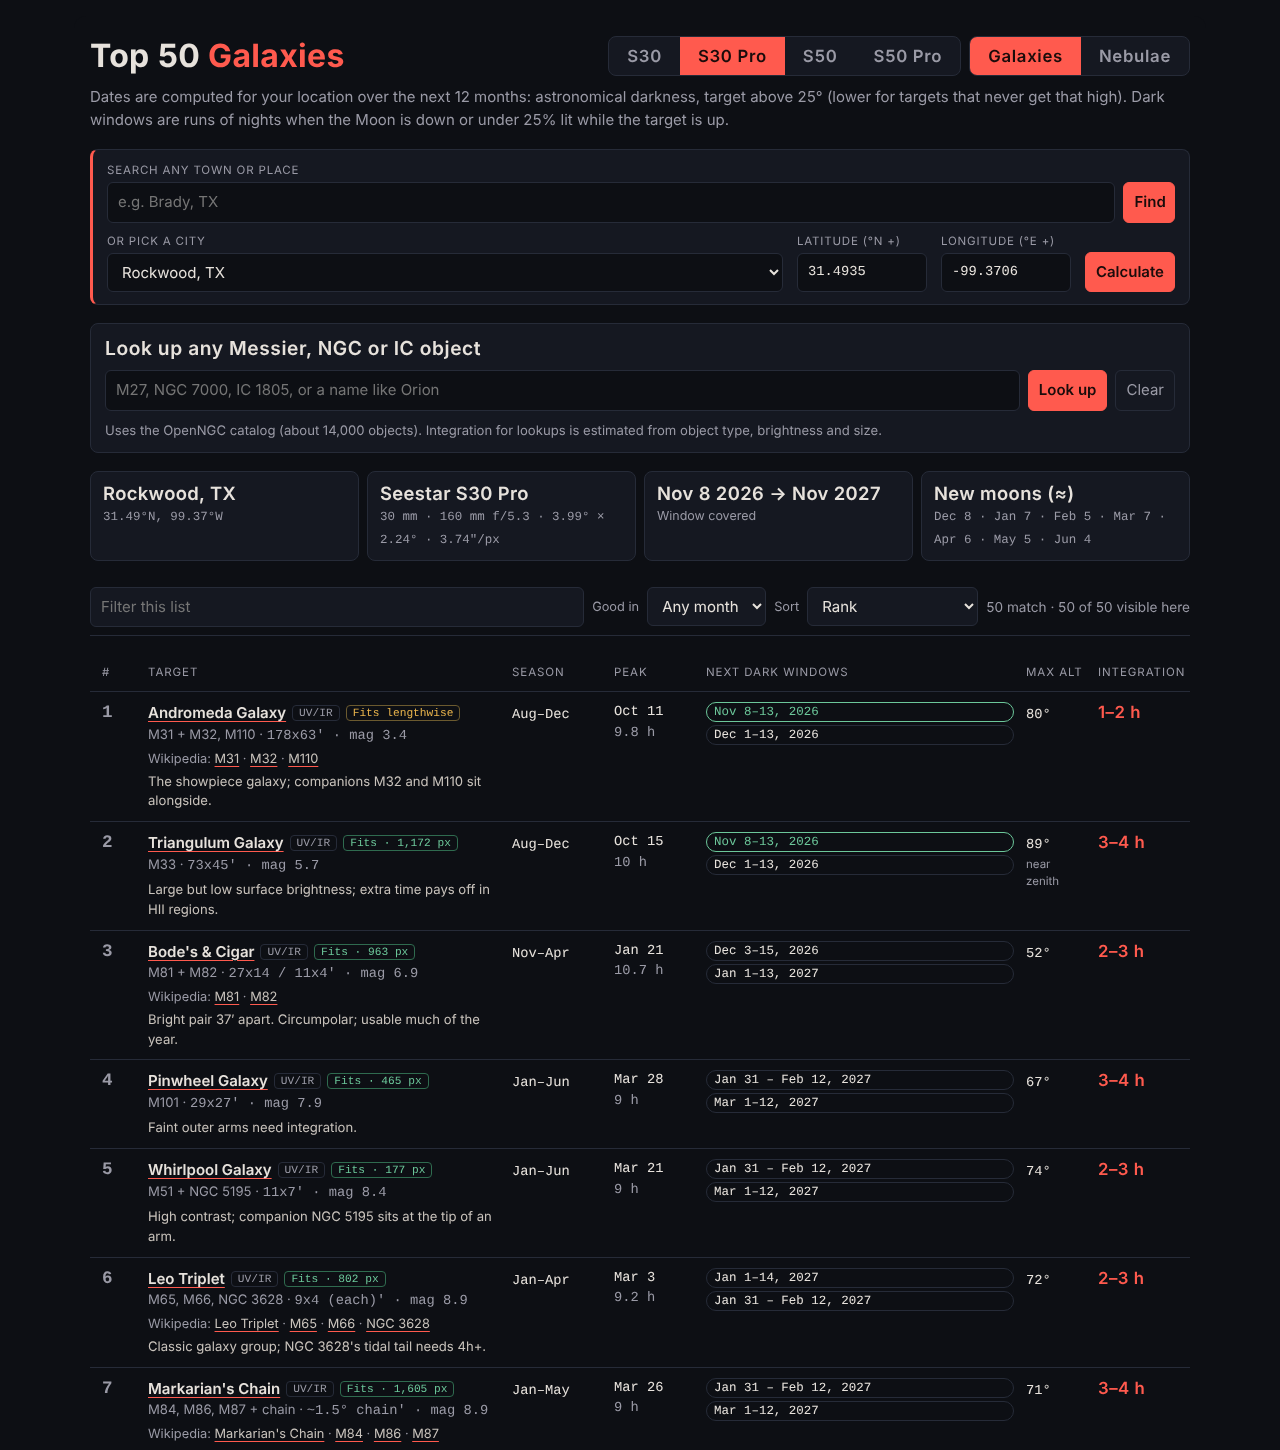
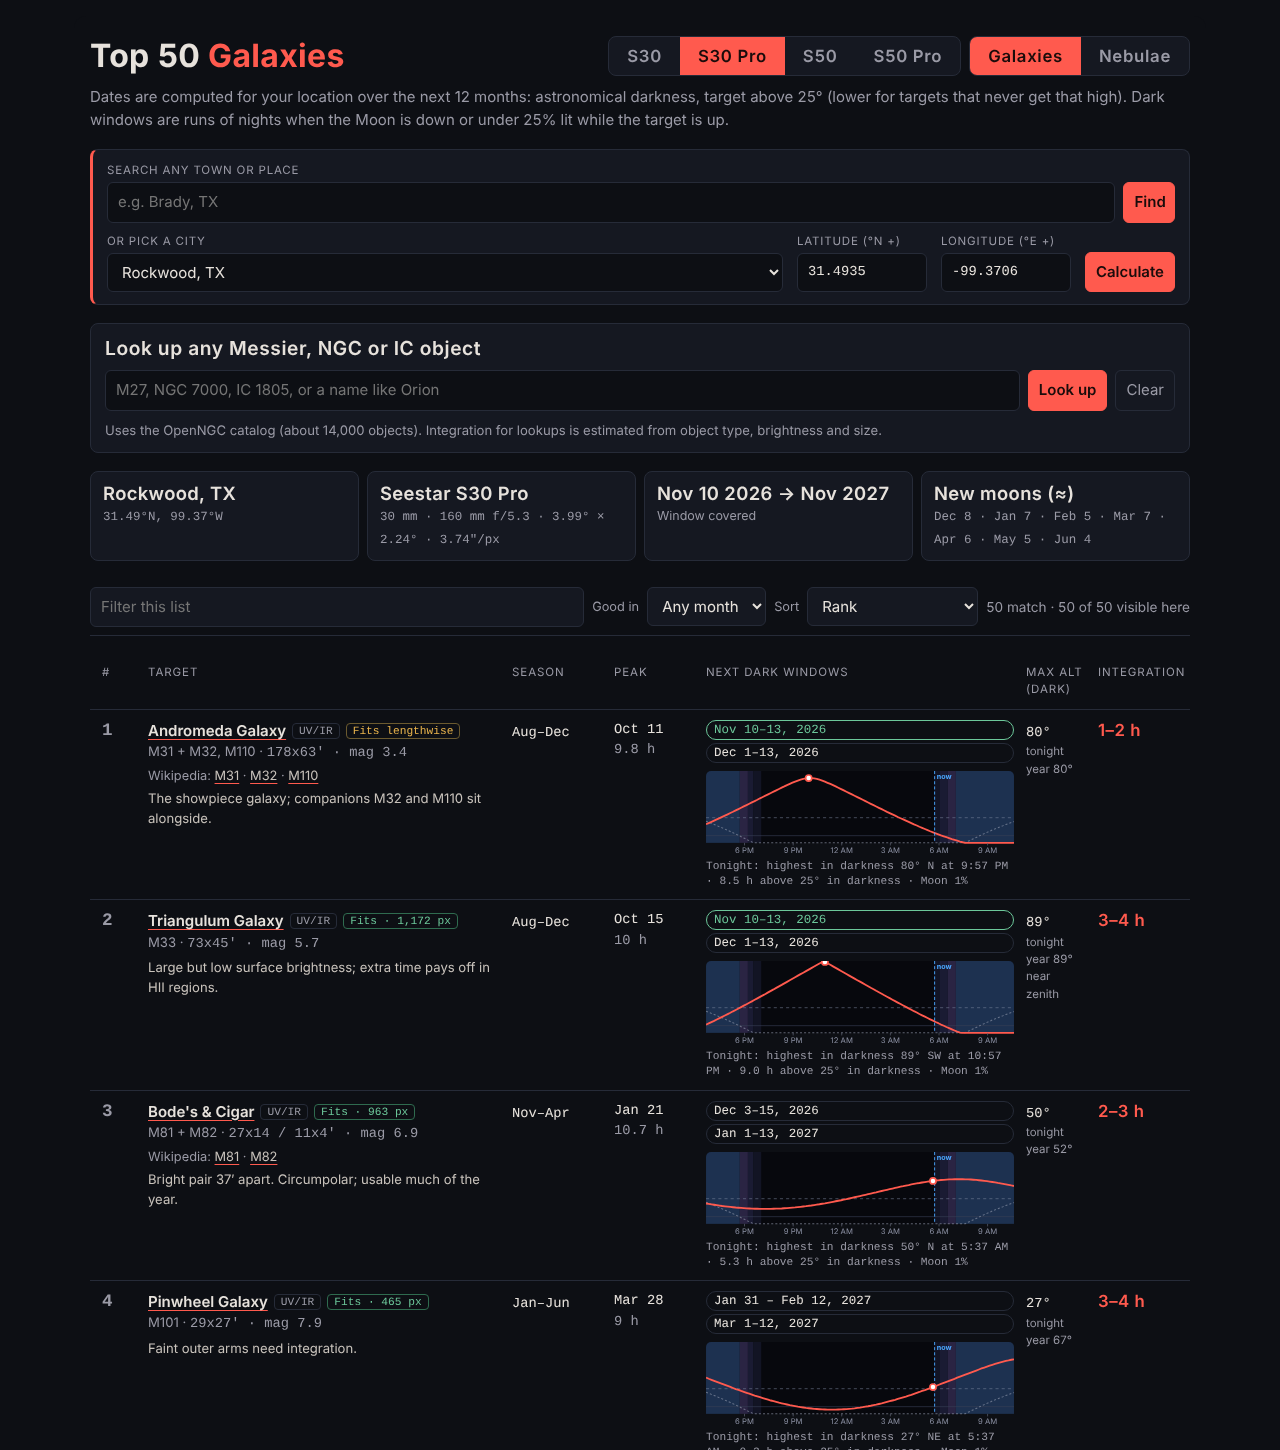
1.1.0: altitude charts, moon data and max altitude in darkness.

diff --git a/js/planner.js b/js/planner.js
@@ -45,9 +45,14 @@ function prepSite(lat,lon,start){
 const fmtD=d=>`${MON[d.getUTCMonth()]} ${d.getUTCDate()}`;
 const fmtW=(a,b)=>a.getTime()===b.getTime()?`${fmtD(a)}, ${a.getUTCFullYear()}`:a.getUTCMonth()===b.getUTCMonth()?`${fmtD(a)}–${b.getUTCDate()}, ${b.getUTCFullYear()}`:`${fmtD(a)} – ${fmtD(b)}, ${b.getUTCFullYear()}`;
 function evalTarget(S,ra,dec){
-  const maxalt=90-Math.abs(S.lat-dec), thr=maxalt>=35?25:Math.max(12,maxalt-8);
+  // Max altitude = highest point reached during astronomical darkness (Sun below -18°) over the 12 months,
+  // not the geometric culmination, which can fall in daylight or twilight.
+  const sd=sinD(dec)*sinD(S.lat), cd=cosD(dec)*cosD(S.lat);
+  let maxV=-1;
+  S.nights.forEach(nt=>{ for(let i=0;i<nt.ls.length;i++){ const v=sd+cd*cosD(nt.ls[i]-ra); if(v>maxV) maxV=v; } });
+  const maxalt=Math.asin(Math.max(-1,Math.min(1,maxV)))/RAD, thr=maxalt>=35?25:Math.max(12,maxalt-8);
   if(maxalt<12) return {visible:false,maxalt:Math.round(maxalt)};
-  const tot=new Float32Array(NIGHTS), mf=new Float32Array(NIGHTS), sd=sinD(dec)*sinD(S.lat), cd=cosD(dec)*cosD(S.lat), st=sinD(thr);
+  const tot=new Float32Array(NIGHTS), mf=new Float32Array(NIGHTS), st=sinD(thr);
   S.nights.forEach((nt,n)=>{for(let i=0;i<nt.ls.length;i++){ if(sd+cd*cosD(nt.ls[i]-ra)>=st){tot[n]+=STEP/60; if(nt.ok[i]) mf[n]+=STEP/60;} }});
   let pi=0; for(let n=1;n<NIGHTS;n++) if(tot[n]>tot[pi]) pi=n;
   const peakH=tot[pi]; if(peakH<0.5) return {visible:false,maxalt:Math.round(maxalt)};
@@ -181,6 +186,93 @@ function updateScopeUI(){
   $('tipBatt').textContent=`Split long totals across several nights in the same dark window and stack them. Battery is about ${G.batt} h, so plan one or two targets per night.`;
 }
 function setScope(k){ if(!SCOPES[k]) return; scope=k; G=scopeGeom(k); store.set('seestarScope',k); updateScopeUI(); render(); renderLook(); }
+// ---- Tonight's altitude chart. Times are shown in the device's time zone.
+const CW=300, CHT=70, A0=-10, A1=90, CSTEP=10, NIGHT_H=19;
+const CMP=['N','NE','E','SE','S','SW','W','NW'];
+const fmtClock=ms=>new Date(ms).toLocaleTimeString([], {hour:'numeric',minute:'2-digit'});
+const azOf=(ra,dec,lat,l)=>{ const H=l-ra; return norm(Math.atan2(sinD(H),cosD(H)*sinD(lat)-Math.tan(dec*RAD)*cosD(lat))/RAD+180); };
+let nightCache=null;
+function tonight(){
+  // "Tonight" runs from 3 pm to 10 am local solar time at the site, starting from the most recent site noon.
+  const now=Date.now(), off=S.lon/15*3600e3, lmt=new Date(now+off);
+  let noon=Date.UTC(lmt.getUTCFullYear(),lmt.getUTCMonth(),lmt.getUTCDate(),12)-off;
+  if(now<noon) noon-=864e5;
+  const key=`${S.lat},${S.lon},${noon}`;
+  if(nightCache&&nightCache.key===key) return nightCache;
+  const t0=noon+3*3600e3, n=Math.round(NIGHT_H*60/CSTEP)+1, ls=[], sun=[], moon=[];
+  let illum=0;
+  for(let k=0;k<n;k++){
+    const jd=(t0+k*CSTEP*6e4)/864e5+2440587.5, l=lstOf(jd,S.lon), sp=sunPos(jd), mp=moonPos(jd);
+    ls.push(l); sun.push(altOf(sp.ra,sp.dec,S.lat,l)); moon.push(altOf(mp.ra,mp.dec,S.lat,l)-mp.par);
+    if(k===Math.floor(n/2)) illum=(1-cosD(mp.bet)*cosD(mp.lam-sp.lam))/2;
+  }
+  // Sky background: merge runs of the same twilight phase into one band.
+  const tone=a=>a>-0.83?0:a>-6?1:a>-12?2:a>-18?3:4, cols=['#1d3150','#2a2443','#1a1b33','#121424','#07080d'], dx=CW/(n-1);
+  let bands='', st=0;
+  for(let k=1;k<=n;k++){ if(k===n||tone(sun[k])!==tone(sun[st])){ const x0=Math.max(0,(st-0.5)*dx), x1=Math.min(CW,(k-0.5)*dx); bands+=`<rect x="${x0.toFixed(1)}" y="0" width="${(x1-x0).toFixed(1)}" height="${CHT}" fill="${cols[tone(sun[st])]}"/>`; st=k; } }
+  let ticks='';
+  for(let ms=Math.ceil(t0/18e5)*18e5; ms<=t0+NIGHT_H*36e5; ms+=18e5){
+    const d=new Date(ms); if(d.getMinutes()!==0||d.getHours()%3!==0) continue;
+    const x=(ms-t0)/(NIGHT_H*36e5)*CW; if(x<14||x>CW-14) continue;
+    ticks+=`<line x1="${x.toFixed(1)}" x2="${x.toFixed(1)}" y1="${CHT}" y2="${CHT+2.5}" stroke="#5c6070" stroke-width=".7"/><text x="${x.toFixed(1)}" y="${CHT+10}" text-anchor="middle" font-size="7.5" fill="#8b90a3">${d.toLocaleTimeString([], {hour:'numeric'})}</text>`;
+  }
+  return nightCache={key,t0,n,ls,sun,moon,illum,bands,ticks};
+}
+function tonightMax(ra,dec){
+  if(!S||!isFinite(ra)||!isFinite(dec)) return null;
+  const N=tonight(); let m=null;
+  for(let k=0;k<N.n;k++){ if(N.sun[k]>-18) continue; const a=altOf(ra,dec,S.lat,N.ls[k]); if(m===null||a>m) m=a; }
+  return m; // null if there is no full darkness tonight
+}
+const raOf=o=>o.raD!=null?+o.raD:raDeg(o.ra), decOf=o=>o.decD!=null?+o.decD:decDeg(o.dec);
+function altChart(ra,dec){
+  if(!S||!isFinite(ra)||!isFinite(dec)) return '';
+  const N=tonight(), n=N.n, dx=CW/(n-1), y=a=>(A1-Math.max(A0,Math.min(A1,a)))/(A1-A0)*CHT;
+  const maxalt=90-Math.abs(S.lat-dec), thr=maxalt>=35?25:Math.max(12,maxalt-8);
+  const alts=N.ls.map(l=>altOf(ra,dec,S.lat,l));
+  // Peak = highest point during astronomical darkness, which is what matters for imaging.
+  let best=-1, good=0;
+  alts.forEach((a,k)=>{ if(N.sun[k]<=-18){ if(best<0||a>alts[best]) best=k; if(a>=thr) good+=CSTEP; } });
+  if(best<0) best=alts.indexOf(Math.max(...alts));
+  const path=arr=>arr.map((a,k)=>`${k?'L':'M'}${(k*dx).toFixed(1)},${y(a).toFixed(1)}`).join('');
+  const nowF=(Date.now()-N.t0)/(NIGHT_H*36e5);
+  const now=nowF>0&&nowF<1?`<line x1="${(nowF*CW).toFixed(1)}" x2="${(nowF*CW).toFixed(1)}" y1="0" y2="${CHT}" stroke="#4aa8ff" stroke-width=".9" stroke-dasharray="3 2"/><text x="${(nowF*CW+2).toFixed(1)}" y="8" font-size="7" font-weight="700" fill="#4aa8ff">now</text>`:'';
+  const up=alts[best]>0&&N.sun[best]<=-18, bx=best*dx, by=y(alts[best]);
+  const az=alts.map((a,k)=>Math.round(azOf(ra,dec,S.lat,N.ls[k])));
+  const moonPct=Math.round(N.illum*100);
+  const cap=up?`Tonight: highest in darkness ${Math.round(alts[best])}° ${CMP[Math.round(az[best]/45)%8]} at ${fmtClock(N.t0+best*CSTEP*6e4)} · ${(good/60).toFixed(1)} h above ${Math.round(thr)}° in darkness · Moon ${moonPct}%`
+               :`Not above the horizon in darkness tonight · Moon ${moonPct}%`;
+  return `<div class="ss-altw"><svg class="ss-altc" viewBox="0 0 ${CW} ${CHT+13}" role="img" aria-label="${esc(cap)}" data-t0="${N.t0}" data-n="${n}" data-best="${best}" data-up="${up?1:0}" data-a="${alts.map(a=>a.toFixed(1)).join(',')}" data-z="${az.join(',')}">
+${N.bands}<line x1="0" x2="${CW}" y1="${y(thr).toFixed(1)}" y2="${y(thr).toFixed(1)}" stroke="#7d869f" stroke-width=".7" stroke-dasharray="3 3" opacity=".75"/><line x1="0" x2="${CW}" y1="${y(0).toFixed(1)}" y2="${y(0).toFixed(1)}" stroke="#3a3f55" stroke-width=".6"/>
+<path d="${path(N.moon)}" fill="none" stroke="#9aa0b3" stroke-width="1" stroke-dasharray="2 2" opacity=".6"/>${up?`<path d="${path(alts)}" fill="none" stroke="#ff5a4e" stroke-width="1.8" stroke-linejoin="round"/>`:''}${now}
+<line class="ss-acur" x1="${bx.toFixed(1)}" x2="${bx.toFixed(1)}" y1="0" y2="${CHT}" stroke="#fff" stroke-width=".6" stroke-dasharray="2 2" opacity="0"/><circle class="ss-adot" cx="${bx.toFixed(1)}" cy="${by.toFixed(1)}" r="3" fill="#fff" stroke="#ff5a4e" stroke-width="1.6" visibility="${up?'visible':'hidden'}"/>
+${N.ticks}</svg><div class="ss-altcap" data-def="${esc(cap)}">${esc(cap)}</div></div>`;
+}
+// Hover or drag across a chart to read altitude, direction and time.
+(function(){
+  let active=null;
+  const reset=sv=>{ const w=sv.parentNode, k=+sv.dataset.best, dx=CW/(+sv.dataset.n-1), a=+sv.dataset.a.split(',')[k];
+    w.classList.remove('ss-on'); w.querySelector('.ss-altcap').textContent=w.querySelector('.ss-altcap').dataset.def;
+    sv.querySelector('.ss-acur').setAttribute('opacity','0');
+    const d=sv.querySelector('.ss-adot'); d.setAttribute('cx',(k*dx).toFixed(1)); d.setAttribute('cy',((A1-Math.max(A0,Math.min(A1,a)))/(A1-A0)*CHT).toFixed(1)); d.setAttribute('visibility',sv.dataset.up==='1'?'visible':'hidden'); };
+  document.addEventListener('pointermove',e=>{
+    const sv=e.target.closest?e.target.closest('.ss-altc'):null;
+    if(active&&active!==sv){ reset(active); active=null; }
+    if(!sv) return;
+    active=sv;
+    if(!sv._a){ sv._a=sv.dataset.a.split(',').map(Number); sv._z=sv.dataset.z.split(',').map(Number); }
+    const n=+sv.dataset.n, dx=CW/(n-1), r=sv.getBoundingClientRect(), k=Math.max(0,Math.min(n-1,Math.round((e.clientX-r.left)/r.width*CW/dx)));
+    const a=sv._a[k], x=(k*dx).toFixed(1), t=fmtClock(+sv.dataset.t0+k*CSTEP*6e4);
+    sv.querySelector('.ss-acur').setAttribute('x1',x); sv.querySelector('.ss-acur').setAttribute('x2',x); sv.querySelector('.ss-acur').setAttribute('opacity','.6');
+    const d=sv.querySelector('.ss-adot'); d.setAttribute('cx',x); d.setAttribute('cy',((A1-Math.max(A0,Math.min(A1,a)))/(A1-A0)*CHT).toFixed(1)); d.setAttribute('visibility','visible');
+    sv.parentNode.classList.add('ss-on');
+    sv.parentNode.querySelector('.ss-altcap').textContent= a>0?`${t} · altitude ${Math.round(a)}° · ${CMP[Math.round(sv._z[k]/45)%8]}`:`${t} · below the horizon`;
+  });
+  const off=()=>{ if(active){ reset(active); active=null; } };
+  document.addEventListener('pointercancel',off);
+  document.addEventListener('pointerup',e=>{ if(e.pointerType!=='mouse') off(); });
+  document.documentElement.addEventListener('mouseleave',off);
+})();
 function rowHTML(o,rank,r){
   const links=o.wiki.map(w=>`<a class="ss-wk" href="${esc(w[1])}" target="_blank" rel="noopener">${esc(w[0])}</a>`);
   const nameHTML=`<a class="ss-wk" href="${esc(o.wiki[0][1])}" target="_blank" rel="noopener">${esc(o.name)}</a>`;
@@ -195,8 +287,8 @@ function rowHTML(o,rank,r){
   return `<div class="ss-row" role="row">${head}
 <div class="ss-c-se"><span class="ss-lbl">Season</span><span class="ss-mono">${r.season}</span></div>
 <div class="ss-c-pk"><span class="ss-lbl">Peak</span><span class="ss-mono">${r.peak}</span><span class="ss-mono ss-dim">${r.peakH} h</span></div>
-<div class="ss-c-win"><span class="ss-lbl">Dark</span><div class="ss-win">${w}</div></div>
-<div class="ss-c-alt"><span class="ss-lbl">Max alt</span><span class="ss-mono">${r.maxalt}°</span>${tags}</div>
+<div class="ss-c-win"><span class="ss-lbl">Dark</span><div class="ss-win">${w}</div>${altChart(raOf(o),decOf(o))}</div>
+<div class="ss-c-alt"><span class="ss-lbl">Max alt</span>${(()=>{ const t=tonightMax(raOf(o),decOf(o)); return t===null?'<span class="ss-mono">—</span><span class="ss-tag ss-zen">no full dark tonight</span>':t>0?`<span class="ss-mono">${Math.round(t)}°</span><span class="ss-tag ss-zen">tonight</span>`:'<span class="ss-mono">—</span><span class="ss-tag ss-zen">below horizon tonight</span>'; })()}<span class="ss-tag ss-zen">year ${r.maxalt}°</span>${tags}</div>
 <div class="ss-c-int"><span class="ss-int">${esc(scaleInteg(o.integ))}</span>${o.est?'<span class="ss-tag ss-zen">estimate</span>':''}</div></div>`;
 }
 function render(){
@@ -204,7 +296,7 @@ function render(){
   const L=LISTS[kind], RR=R[kind];
   const q=$('q').value.trim().toLowerCase(), m=+$('mo').value, s=$('sort').value;
   let rows=L.map((t,i)=>({...t,rank:i+1,r:RR[i]})).filter(o=>(!q||(o.name+' '+o.members).toLowerCase().includes(q))&&(!m||(o.r.visible&&inSeason(o.r.season,m))));
-  const key={fit:o=>{const x=framing(o.frame);return x?x.k*10-x.f:99;},rank:o=>o.rank,win:o=>o.r.visible?o.r.winStart:1e5,peak:o=>o.r.visible?o.r.peakKey:1e5,int:o=>parseFloat(o.integ)};
+  const key={alt:o=>{ if(!o.r.visible) return 1e5; const t=tonightMax(raOf(o),decOf(o)); return t===null||t<=0?1e4-o.r.maxalt:-t; },fit:o=>{const x=framing(o.frame);return x?x.k*10-x.f:99;},rank:o=>o.rank,win:o=>o.r.visible?o.r.winStart:1e5,peak:o=>o.r.visible?o.r.peakKey:1e5,int:o=>parseFloat(o.integ)};
   rows.sort((a,b)=>{const x=key[s](a),y=key[s](b);return x<y?-1:x>y?1:a.rank-b.rank;});
   if(s==='rank') rows.sort((a,b)=>(b.r.visible-a.r.visible)||a.rank-b.rank);
   const total=rows.length, per=+$('per').value||total||1, pages=Math.max(1,Math.ceil(total/per));
@@ -312,6 +404,7 @@ function init(){
     document.querySelectorAll('#ss-scopeSeg button').forEach(b=>b.addEventListener('click',()=>setScope(b.dataset.s)));
     const sk=store.get('seestarScope'); if(SCOPES[sk]){ scope=sk; G=scopeGeom(sk); }
     updateScopeUI();
+    try{ $('tipChart').textContent+=` Chart times use this device's time zone (${Intl.DateTimeFormat().resolvedOptions().timeZone}).`; }catch(e){}
     let saved=null; try{ saved=JSON.parse(store.get('seestarLoc')); }catch(e){}
     setFields(saved&&isFinite(saved.lat)&&isFinite(saved.lon)?saved:DEF);
     run();

diff --git a/index.html b/index.html
@@ -69,12 +69,12 @@
   <label for="ss-mo">Good in</label>
   <select id="ss-mo"><option value="">Any month</option></select>
   <label for="ss-sort">Sort</label>
-  <select id="ss-sort"><option value="rank">Rank</option><option value="win">Next dark window</option><option value="peak">Peak date</option><option value="int">Integration</option><option value="fit">Framing</option></select>
+  <select id="ss-sort"><option value="rank">Rank</option><option value="win">Next dark window</option><option value="peak">Peak date</option><option value="int">Integration</option><option value="fit">Framing</option><option value="alt">Max altitude</option></select>
   <span class="ss-count" id="ss-count"></span>
 </div>
 
 <div role="table" aria-label="Top 50 targets">
-  <div class="ss-head" role="row"><span>#</span><span>Target</span><span>Season</span><span>Peak</span><span>Next dark windows</span><span>Max alt</span><span>Integration</span></div>
+  <div class="ss-head" role="row"><span>#</span><span>Target</span><span>Season</span><span>Peak</span><span>Next dark windows</span><span>Max alt (dark)</span><span>Integration</span></div>
   <div id="ss-rows"><p class="ss-busy">Loading…</p></div>
 </div>
 <div class="ss-pgbar">
@@ -82,7 +82,7 @@
   <div class="ss-per"><label for="ss-per">Show</label>
     <select id="ss-per"><option value="10">10</option><option value="20">20</option><option value="30">30</option><option value="40">40</option><option value="50">50</option><option value="0">All</option></select><span>per page</span></div>
 </div>
-<noscript><p class="ss-err">COM_SEESTAR_NOSCRIPT</p></noscript>
+<noscript><p class="ss-err">The Seestar Target Planner needs JavaScript to calculate target visibility.</p></noscript>
 
 <section class="ss-tips">
   <h2 class="ss-h2">Integration notes</h2>
@@ -93,8 +93,10 @@
     <li id="ss-tipInteg">Integration times are set for the S30 Pro.</li>
     <li id="ss-tipBatt">Split long totals across several nights in the same dark window and stack them. Battery is about 6 h, so plan one or two targets per night.</li>
     <li>Targets tagged “near zenith” climb past 80°, where alt-az tracking struggles. Image them a couple of hours either side of transit, or use EQ mode on a wedge.</li>
-    <li>Amber “low” targets never clear 30° from this location. Image them within an hour or so of transit with a clean horizon in their direction.</li>
+    <li>Max alt shows how high a target climbs during full darkness <b>tonight</b> (this is what the Max altitude sort uses), with its best for the next 12 months underneath as “year”. Neither counts daylight or twilight.</li>
+    <li>Amber “low” targets never clear 30° in darkness from this location. Image them within an hour or so of transit with a clean horizon in their direction.</li>
     <li>Greyed-out targets never rise high enough to image from this location.</li>
+    <li id="ss-tipChart">Each chart shows the target's altitude tonight (red), the Moon (grey dashed) and the sky from daylight to full dark. Hover or drag across a chart to read the altitude, direction and time at any moment.</li>
   </ul>
 </section>
 <p class="ss-foot">Season = months averaging at least half of the target's best-night dark hours. Peak = the night the target is up longest in full darkness. Dates are local calendar nights, labeled by the evening date. Sun and Moon use low-precision formulas, good to a few minutes. Positions J2000; sizes and magnitudes are approximate. Lookup data: OpenNGC by Mattia Verga (CC BY-SA 4.0). Place search © OpenStreetMap contributors, via Nominatim.</p>

diff --git a/css/planner.css b/css/planner.css
@@ -121,3 +121,8 @@
 html,body{margin:0;background:#0d0f14;color:#e7e2dc}
 body{padding:16px 0}
 main{padding:0 8px}
+
+.seestar-planner .ss-altw{margin-top:8px;max-width:340px;width:100%}
+.seestar-planner .ss-altc{display:block;width:100%;height:auto;touch-action:pan-y;cursor:crosshair;border-radius:5px}
+.seestar-planner .ss-altcap{font:500 .7rem/1.35 var(--ss-mono);color:var(--ss-dim);margin-top:3px;min-height:1.35em}
+.seestar-planner .ss-altw.ss-on .ss-altcap{color:var(--ss-ink)}

diff --git a/README.md b/README.md
@@ -16,12 +16,15 @@ it, whether it fits in the frame, and how much total integration to collect.
 - **For each target, over the next 12 months:**
   - season and peak night
   - next two moon-dark windows
-  - maximum altitude, with warnings for low targets and for targets passing near the zenith (hard for alt-az tracking)
+  - highest altitude in full darkness, tonight and over the year, with warnings for low targets and for targets
+    passing near the zenith (hard for alt-az tracking)
+- **Tonight's altitude chart** for each target: altitude curve, Moon, twilight shading and a "now" marker. Hover or
+  drag across it to read altitude, direction and time.
 - **Telescope selector** (S30, S30 Pro, S50, S50 Pro):
   - framing tags: fits, fits lengthwise, small (crop afterward), or the mosaic size needed
   - integration times rescaled for each scope
 - **Look up any Messier, NGC or IC object** from the OpenNGC catalog (about 14,000 objects) and get the same details.
-- Filter by month; sort by rank, next dark window, peak date, integration or framing; show 10–50 targets per page or all of them.
+- Filter by month; sort by rank, next dark window, peak date, integration, framing or max altitude; show 10–50 targets per page or all of them.
 - Works on phones. Your location, telescope, list and page size are remembered in your browser.
 
 ## How the numbers are worked out

diff --git a/CHANGELOG.md b/CHANGELOG.md
@@ -1,5 +1,16 @@
 # Changelog
 
+## 1.1.0 (2026-11-10)
+
+- Tonight's altitude chart for every target and lookup: altitude curve, Moon path, twilight shading, the imaging
+  threshold and a "now" marker, with hover/drag read-out of altitude, compass direction and time. Times use the
+  device's time zone.
+- Max altitude now counts only full darkness. The column shows tonight's highest point in darkness, with the best
+  for the next 12 months underneath.
+- New sort option: Max altitude (tonight, in darkness).
+- Fixed: the no-JavaScript message showed a placeholder instead of text.
+- Fixed: group sizes such as "9x4 (each)" no longer get a stray arcminute mark.
+
 ## 1.0.0 (2026-11-08)
 
 First public release of the stand-alone web version.
